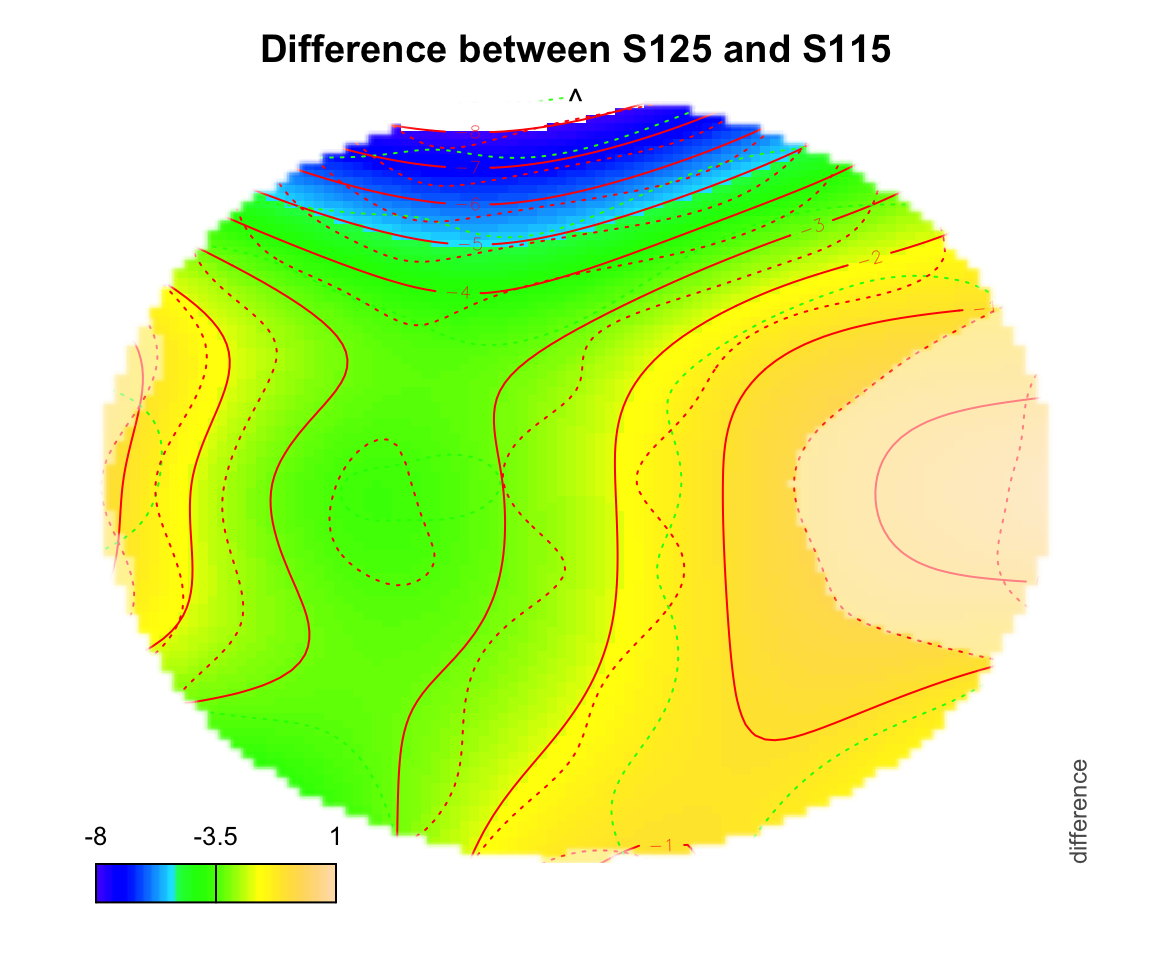
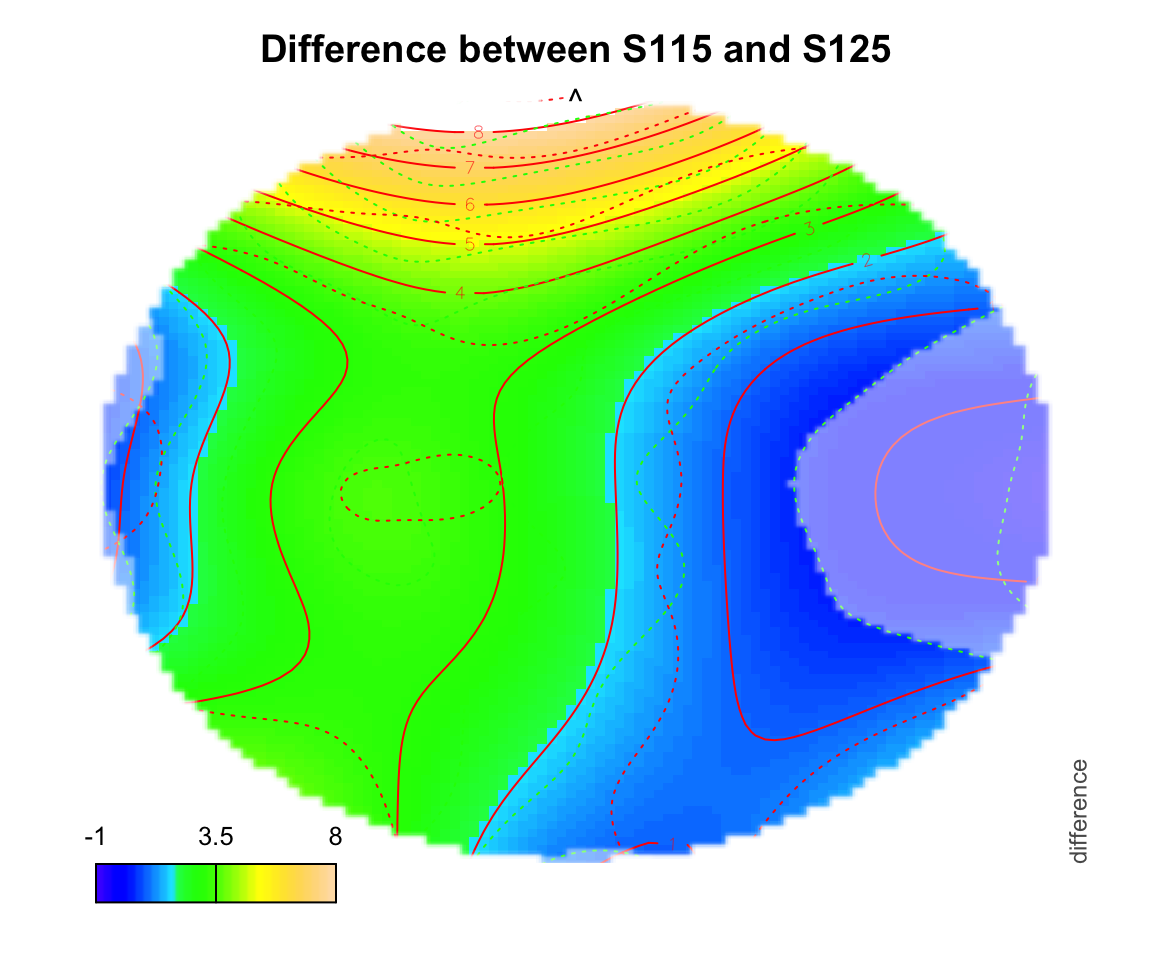
first commit

diff --git a/portfolio/erp/index.html b/portfolio/erp/index.html
@@ -155,12 +155,12 @@
 <div id="required-packages" class="section level2">
 <h2>Required packages</h2>
 <pre class="r"><code>library(tidyverse)</code></pre>
-<pre><code>## ── Attaching packages ──────────────────────────────────────────── tidyverse 1.3.0 ──</code></pre>
+<pre><code>## ── Attaching packages ──────────────────────────────────────────────────────────── tidyverse 1.3.0 ──</code></pre>
 <pre><code>## ✓ ggplot2 3.2.1     ✓ purrr   0.3.3
 ## ✓ tibble  2.1.3     ✓ dplyr   0.8.4
 ## ✓ tidyr   1.0.2     ✓ stringr 1.4.0
 ## ✓ readr   1.3.1     ✓ forcats 0.4.0</code></pre>
-<pre><code>## ── Conflicts ─────────────────────────────────────────────── tidyverse_conflicts() ──
+<pre><code>## ── Conflicts ─────────────────────────────────────────────────────────────── tidyverse_conflicts() ──
 ## x dplyr::filter() masks stats::filter()
 ## x dplyr::lag()    masks stats::lag()</code></pre>
 <pre class="r"><code>library(mgcv)</code></pre>
@@ -347,7 +347,7 @@ twix_effects = full_join(twix_data_N400, twix_data_P600)</code></pre>
 </div>
 <div id="k-means-clustering" class="section level1">
 <h1>k means clustering</h1>
-<p>Darren Tanner used k-means clustering in <img src="https://www.researchgate.net/publication/326979552_Individual_Differences_in_the_Real-Time_Neural_Dynamics_of_Language_Comprehension" alt="this" /> paper. His use of k-means clustering was an exploratory analysis. He used this method to compare two test conditions to baseline.</p>
+<p>Darren Tanner used k-means clustering in <a href="https://www.researchgate.net/publication/326979552_Individual_Differences_in_the_Real-Time_Neural_Dynamics_of_Language_Comprehension">this</a> paper. His use of k-means clustering was an exploratory analysis. He used this method to compare two test conditions to baseline.</p>
 <p>Here I am comparing conditions S125 and S135 each to baseline S115. The first steps are creating the data frames.</p>
 <pre class="r"><code>twix_data_N400_diff = twix_data_N400 %&gt;% ungroup() %&gt;% pivot_wider( names_from = condition, values_from = N400) %&gt;% mutate(N400_S2_1 = S125-S115, N400_S3_1 = S135-S115) %&gt;% select(-c(S115:S135))
 
@@ -511,16 +511,16 @@ plot_topo(gamtwix0101, view=c(&#39;X&#39;, &#39;Y&#39;), cond=list(time=200, con
 <div id="difference-plotting" class="section level2">
 <h2>Difference plotting</h2>
 <p>For difference plotting, you need to specify a zlim in order to see the color bar on the bottom. zlim is the range of differences between two conditions. Figuring out an appropriate zlim takes some trial and error. If a value is outside of that zlim range, it shows up as white on the topo plot.</p>
-<pre class="r"><code>plot_topo(gamtwix0101, view=c(&#39;X&#39;, &#39;Y&#39;), zlim = c(-8,1),
-     cond = list(time = 400), comp=list(condition = c(&quot;S125&quot;, &quot;S115&quot;)),
+<pre class="r"><code>plot_topo(gamtwix0101, view=c(&#39;X&#39;, &#39;Y&#39;), zlim = c(-1,8),
+     cond = list(time = 400), comp=list(condition = c(&quot;S115&quot;, &quot;S125&quot;)),
     fun=&#39;plot_diff2&#39;)</code></pre>
 <pre><code>## Summary:
 ##  * time : numeric predictor; set to the value(s): 400. 
 ##  * X : numeric predictor; with 100 values ranging from -46.200000 to 46.200000. 
 ##  * Y : numeric predictor; with 100 values ranging from -46.200000 to 46.200000.</code></pre>
 <p><img src="/portfolio/ERP_files/figure-html/unnamed-chunk-14-1.png" width="576" /></p>
-<pre class="r"><code>plot_topo(gamtwix0101, view=c(&#39;X&#39;, &#39;Y&#39;), zlim = c(-8,1),
-     cond = list(time = 400), comp=list(condition = c(&quot;S125&quot;, &quot;S115&quot;)),
+<pre class="r"><code>plot_topo(gamtwix0101, view=c(&#39;X&#39;, &#39;Y&#39;), zlim = c(-1,8),
+     cond = list(time = 400), comp=list(condition = c(&quot;S115&quot;, &quot;S125&quot;)),
     fun=&#39;plot_diff2&#39;, show.diff = T, col.diff = &quot;white&quot;)</code></pre>
 <pre><code>## Summary:
 ##  * time : numeric predictor; set to the value(s): 400. 
@@ -530,8 +530,8 @@ plot_topo(gamtwix0101, view=c(&#39;X&#39;, &#39;Y&#39;), cond=list(time=200, con
 <pre class="r"><code>par(mfrow = c(2,2))
 
 for (k in c(200,400,600,800)){
- plot_topo(gamtwix0101, view=c(&#39;X&#39;, &#39;Y&#39;), zlim = c(-8,8),
-     cond = list(time = k), comp=list(condition = c(&quot;S125&quot;, &quot;S115&quot;)),
+ plot_topo(gamtwix0101, view=c(&#39;X&#39;, &#39;Y&#39;), zlim = c(-1,8),
+     cond = list(time = k), comp=list(condition = c(&quot;S115&quot;, &quot;S125&quot;)),
     fun=&#39;plot_diff2&#39;, main = paste0(&quot;Time: &quot;, k, &quot; ms&quot;), show.diff = T, col.diff = &quot;white&quot;) 
   text(electrodes[[&#39;X&#39;]], electrodes[[&#39;Y&#39;]], 
     labels=electrodes[[&#39;Electrode&#39;]], cex=.75, 

diff --git a/about/index.html b/about/index.html
@@ -2,7 +2,7 @@
 <html lang="en-us">
 <head><meta charset="utf-8">
 <meta http-equiv="X-UA-Compatible" content="IE=edge">
-<title>About me</title>
+<title>About</title>
 
 <meta name="viewport" content="width=device-width, initial-scale=1">
 <meta name="robots" content="all,follow">
@@ -28,9 +28,6 @@
 
 <link href="/css/custom.css" rel="stylesheet">
 <link rel="shortcut icon" href="/img/favicon.png">
-
-  <link href="/about/index.xml" rel="alternate" type="application/rss+xml" title="Dr. Marissa Barlaz" />
-  <link href="/about/index.xml" rel="feed" type="application/rss+xml" title="Dr. Marissa Barlaz" />
 
 
 </head>
@@ -128,12 +125,31 @@
   <div class="row">
     <div class="col-lg-8">
       <div class="content-column-content">
-         <h1>About me</h1>
-         <p><img src="/img/MRI2.JPG" alt="This is me!" /></p>
+         <h1>About</h1>
+         <p>This is a &ldquo;hello world&rdquo; example website for the <a href="https://github.com/rstudio/blogdown"><strong>blogdown</strong></a> package. The theme was forked from <a href="https://github.com/jrutheiser/hugo-lithium-theme">@jrutheiser/hugo-lithium-theme</a> and modified by <a href="https://github.com/yihui/hugo-lithium-theme">Yihui Xie</a>.</p>
 
-<p>I am the Linguistic Data Analytics Manager in the School of Literatures, Cultures, and Linguistics at the University of Illinois at Urbana-Champaign. I received my PhD in Linguistics from the University of Illinois at Urbana-Champaign in May 2018.</p>
+         
+      </div>
+    </div>
+  </div>
+</div>
 
-<p>My research interests include articulatory and acoustic phonetics and phonology. I am currently working on projects related to modeling the relationship between articulation and acoustics using real-time magnetic resonance imaging. These projects include (1) articulatory-to-acoustic inversion using midsagittal images of the vocal tract and (2) statistical modeling of aperture shown in various slices of the vocal tract compared with denoised acoustic data recorded in the MR scanner. I study phenomena including nasalization in French and pharyngealization in Arabic.</p>
+          </div>
+      </div>
+  </div>
+  <script src="/js/jquery.min.js"></script>
+<script src="/js/bootstrap.min.js"></script>
+<script src="/js/jquery.cookie.js"> </script>
+<script src="/js/ekko-lightbox.js"></script>
+<script src="/js/jquery.scrollTo.min.js"></script>
+<script src="/js/masonry.pkgd.min.js"></script>
+<script src="/js/imagesloaded.pkgd.min.js"></script>
+<script src="/js/owl.carousel.min.js"></script>
+<script src="/js/front.js"></script>
+
+</body>
+</html>
+ modeling of aperture shown in various slices of the vocal tract compared with denoised acoustic data recorded in the MR scanner. I study phenomena including nasalization in French and pharyngealization in Arabic.</p>
 
 <p>My dissertation explored the relationship between acoustics and articulation in Brazilian Portuguese nasal vowels. Specifically, I studied the phonetic structure of phonemic nasal vowels and phonetically nasalized vowels in comparison with oral vowels, to determine the phonological status of nasalization in Brazilian Portuguese.</p>
 
